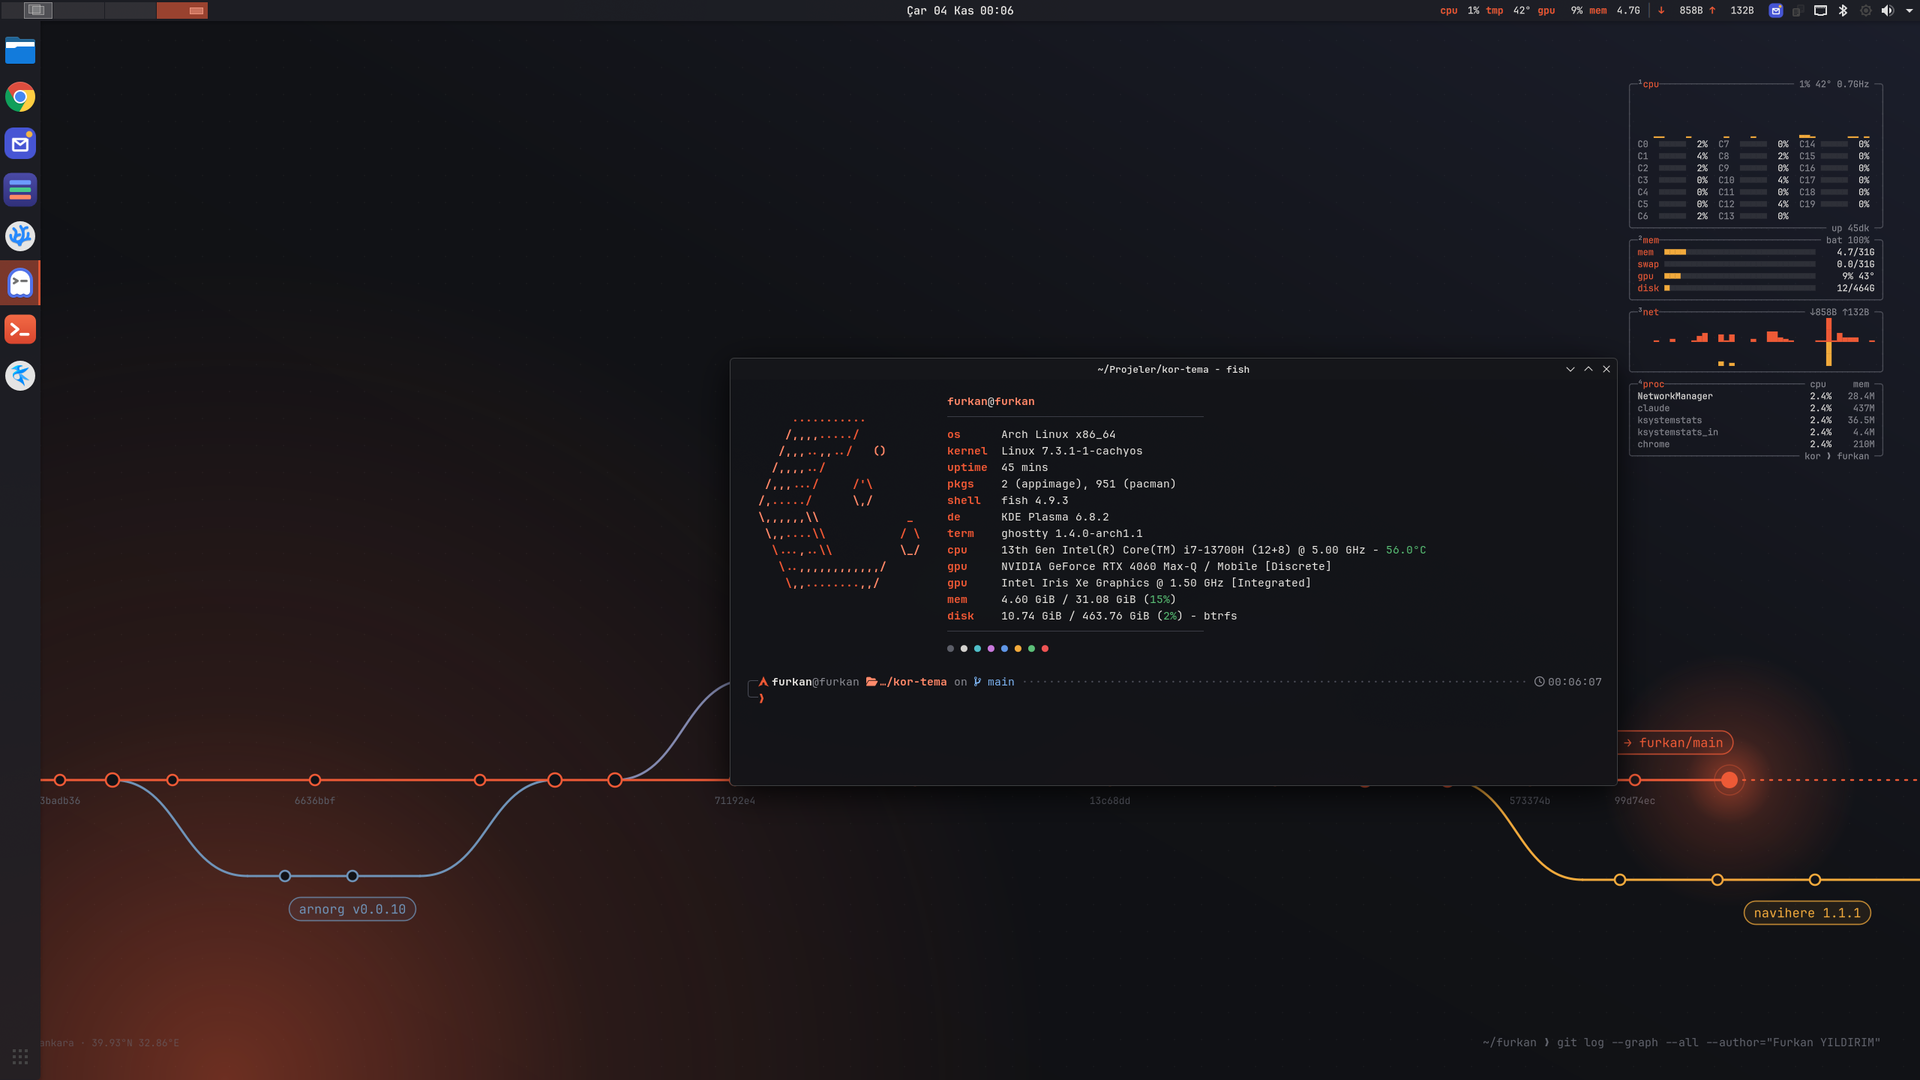
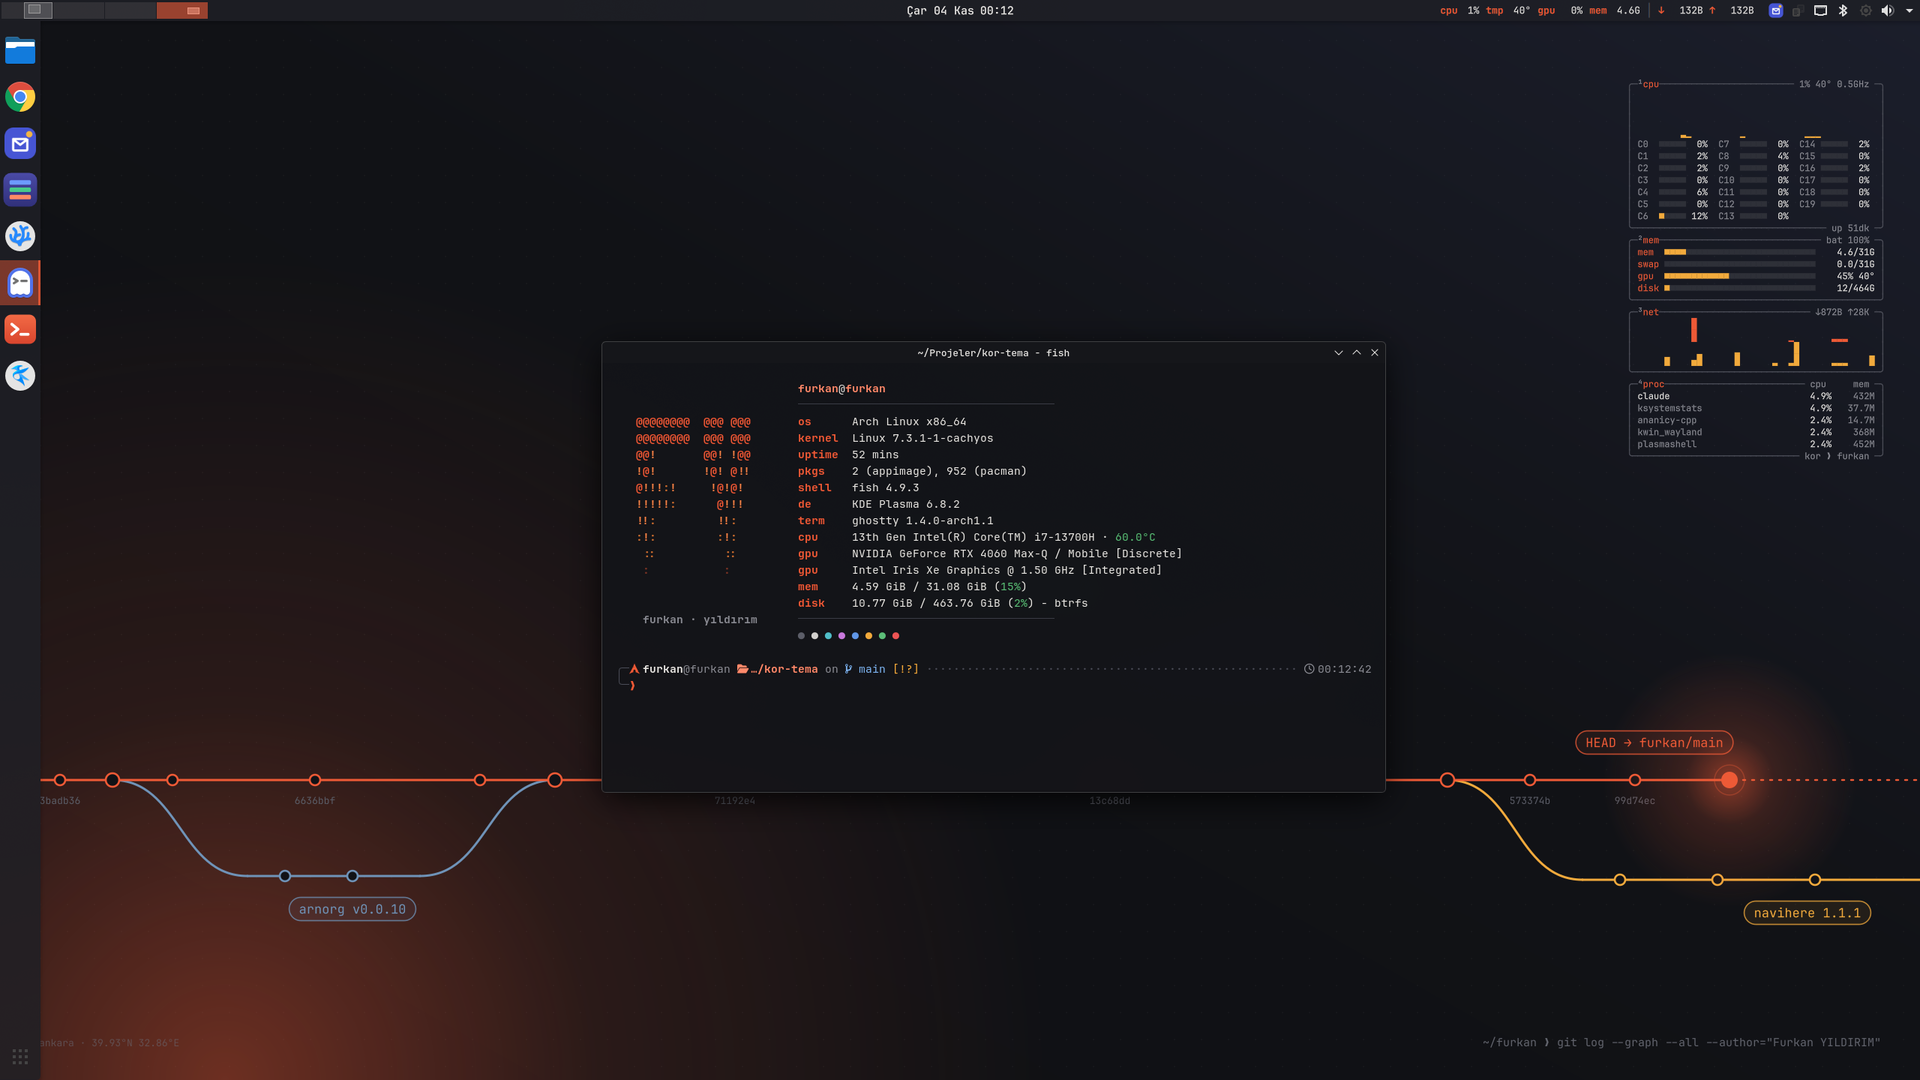
fastfetch: CachyOS logosu yerine FY grafiti ASCII logosu, kısa işlemci satırı

diff --git a/README.md b/README.md
@@ -4,7 +4,7 @@ Furkan YILDIRIM'ın KDE Plasma 6 masaüstü teması: koyu grafit zemin, tek kor 
 
 ![Kor masaüstü](ekran/masaustu.png)
 
-![Ghostty, fastfetch ve starship istemi](ekran/terminal.png)
+![Ghostty: FY grafiti logolu fastfetch ve starship istemi](ekran/terminal.png)
 
 | Kilit ekranı | Açılış ekranı |
 |---|---|
